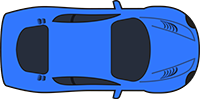
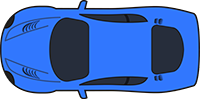
car oritation

diff --git a/index.js b/index.js
@@ -1,1 +1,35 @@
 let path = document.getElementById('path');
+let car = document.getElementById('car');
+let display = document.getElementById('display');
+
+function setCar(backPoint, frontPoint) {
+	let offSet = [ frontPoint[0] - backPoint[0], frontPoint[1] - backPoint[1] ];
+	let pointWeight = [ offSet[0] / (offSet[0] + offSet[1]), offSet[1] / (offSet[0] + offSet[1]) ];
+
+	let midPoint = [ frontPoint[0] - 70 * pointWeight[0], frontPoint[1] - 70 * pointWeight[1] ];
+	car.style.left = frontPoint[0] + 'px';
+	car.style.top = frontPoint[1] - 18 + 'px';
+
+	let rotation = Math.atan2(backPoint[1] - frontPoint[1], backPoint[0] - frontPoint[0]) * 180 / Math.PI;
+	car.style.transform = `rotate(${rotation}deg)`;
+}
+window.onload = init;
+function init() {
+	if (window.Event) {
+		document.captureEvents(Event.MOUSEMOVE);
+	}
+	document.onmousemove = getCursorXY;
+}
+
+function getCursorXY(e) {
+	let cursorX = window.Event
+		? e.pageX
+		: event.clientX +
+			(document.documentElement.scrollLeft ? document.documentElement.scrollLeft : document.body.scrollLeft);
+	let cursorY = window.Event
+		? e.pageY
+		: event.clientY +
+			(document.documentElement.scrollTop ? document.documentElement.scrollTop : document.body.scrollTop);
+	display.innerHTML = `${cursorX}, ${cursorY}`;
+	setCar([ 0, 0 ], [ cursorX, cursorY ]);
+}

diff --git a/index.css b/index.css
@@ -44,5 +44,19 @@
 	transform: rotate(270deg);
 }
 #car {
+	background-image: url('/car/car-blue.png');
+	background-size: contain;
 	position: absolute;
+	width: 70px;
+	height: 35px;
+	border-top: solid red 1px;
+	border-left: solid blue 1px;
+	transform-origin: center left;
+}
+#display {
+	position: fixed;
+	top: 0;
+	z-index: 100;
+	background-color: white;
+	font-size: 28px;
 }

diff --git a/index.html b/index.html
@@ -86,6 +86,7 @@
         " stroke="red" stroke-width="3" fill="none" />
     </svg>
     <div id="car"></div>
+    <div id="display"></div>
 </body>
 <script src="index.js"></script>
 </html>
